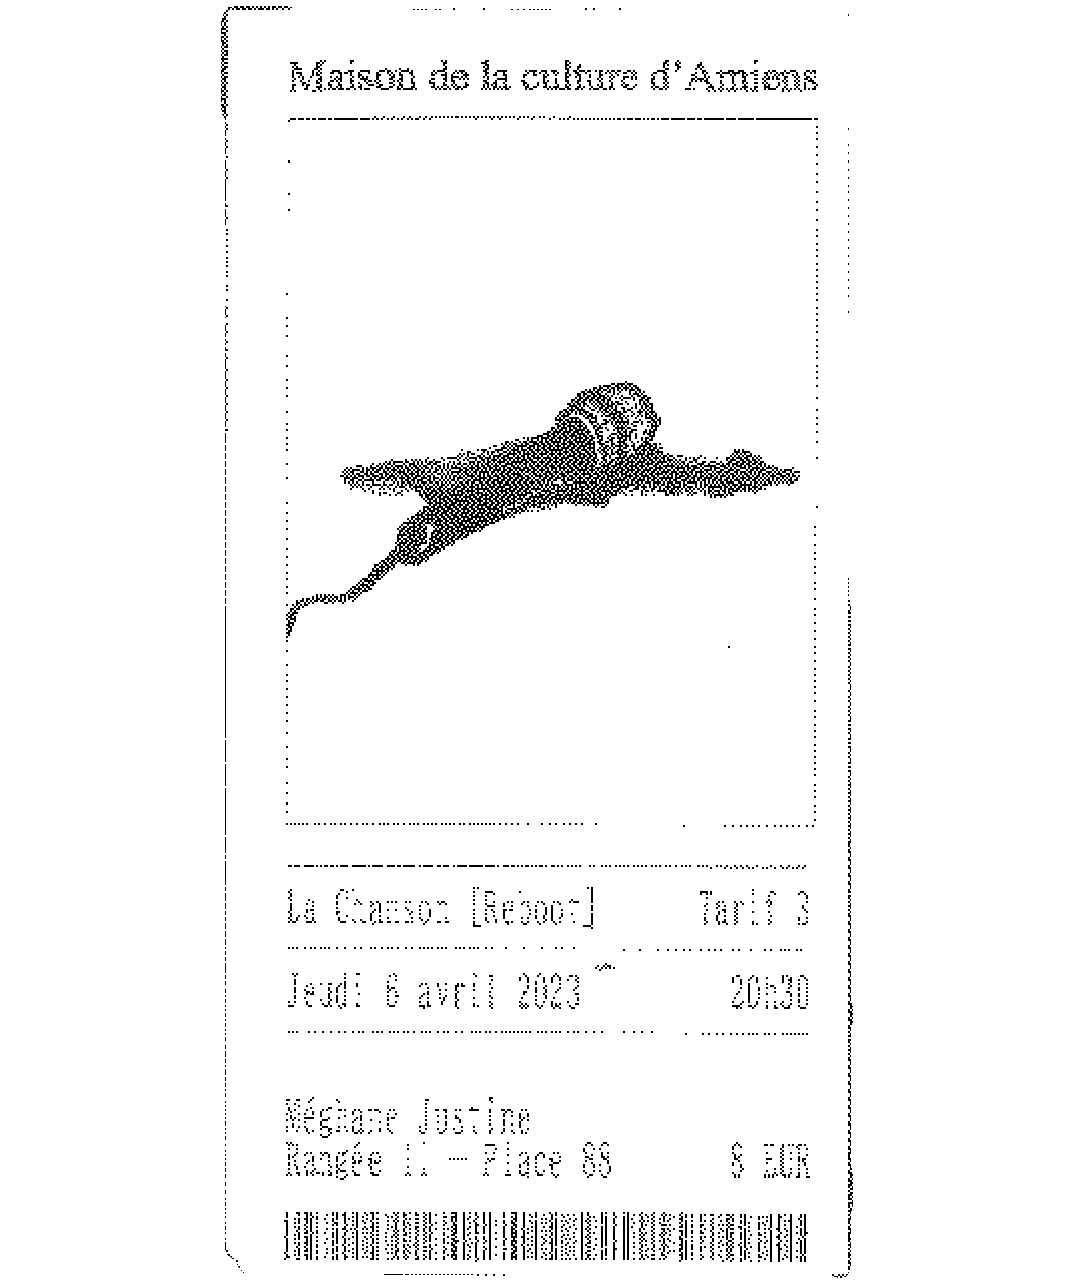
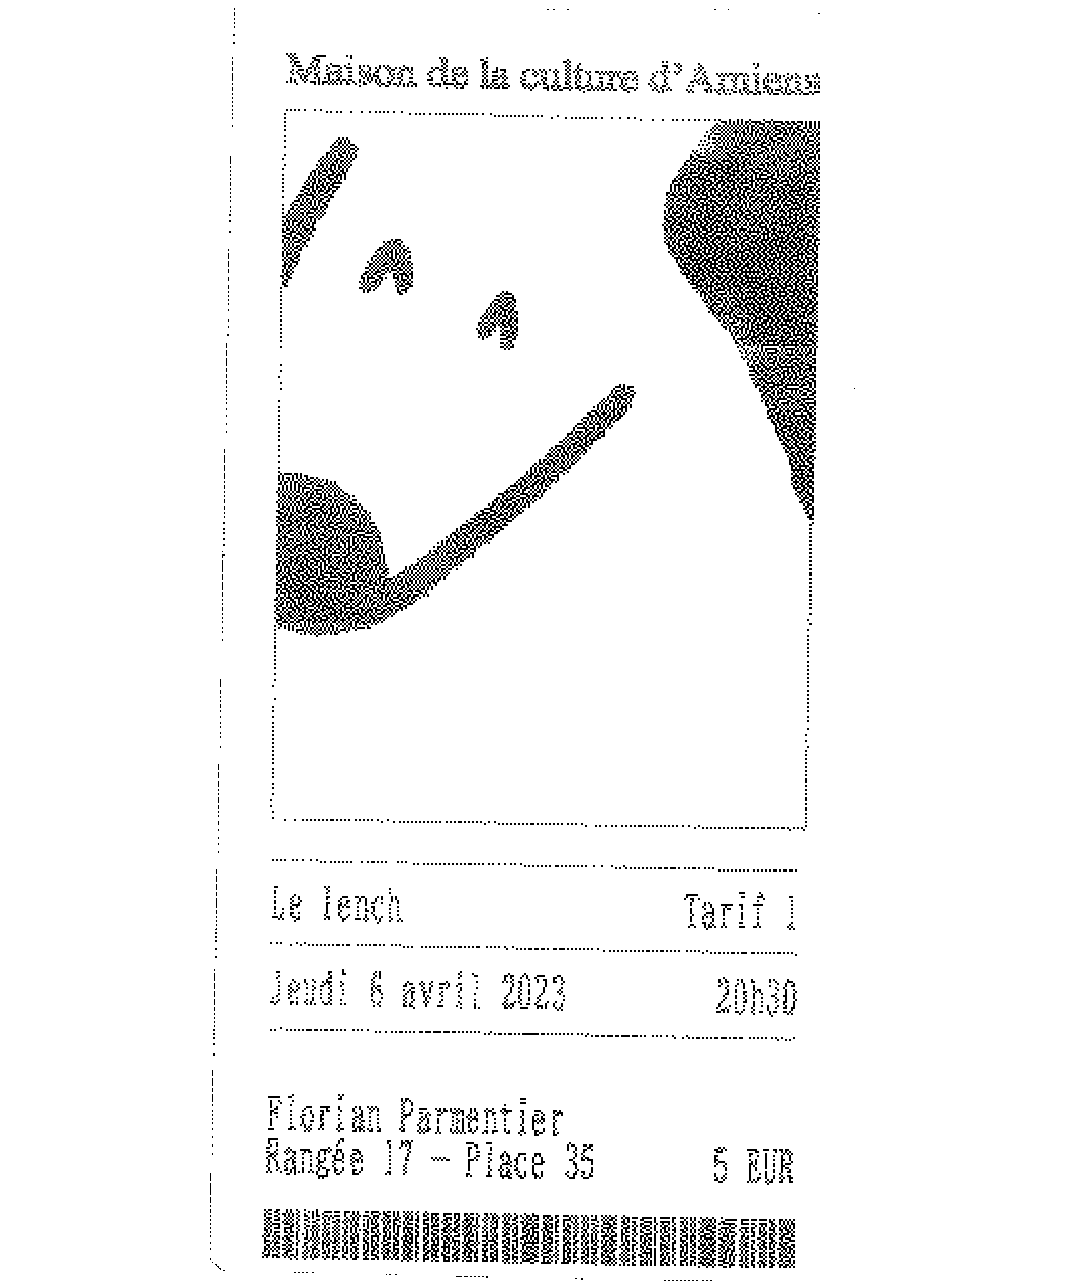
a

diff --git a/index.html b/index.html
@@ -51,7 +51,7 @@
 
     <p>
       © nicolas fernandez,  novembre 2023<br />
-      poids total du site : 250ko<br />
+      poids total du site : 4mo<br />
       contact (arobase) nicolasfernandez.fr
     </p>
 
@@ -102,23 +102,33 @@
       Élaboration d’un système graphique participatif reposant sur une suite bureautique libre et gratuite où artistes et spectateur·ice·s peuvent générer une infinité d’affiches différentes grâce au logiciel JS Paint (revival open-source du célèbre logiciel de Microsoft) qui s’est révelé étonnamment puissant. Dans un premier temps, j’ai réalisé une série de fonds d’affiches typographiques sur Open-Office en utilisant des fontes souvent délaissées par les designer·euse·s mais qui, à mon sens, ont une identité forte. Les fonds ont été mis en ligne sur un site internet conçu sur mesure où chacun·e à pu intervenir à l’aide des nombreux outils qu’offre le logiciel. Ce projet joue sur l’ambiguïté de la place du designer dans le processus créatif, dans le sens où je suis à l’origine du système, mais c’est l’utilisateur·ice produit qui les formes.
       </p>
 
-    <figure><img src="img/macu/saison2.png" alt="" /></figure>
-
     <figure>
       <img src="img/macu/A.png" alt="" />
       <figcaption>Processus de création d'affiche via <a href="https://jspaint.app">JS Paint</a></figcaption>
     </figure>
+
+    <figure><img src="img/macu/catarina_resultat.jpg" alt="" /></figure>
+    <figure><img src="img/macu/fiq_resultat.jpg" alt="" /></figure>
+    <figure><img src="img/macu/iench_resultat.jpg" alt="" /></figure>
+    <figure><img src="img/macu/any_resultat.jpg" alt="" /></figure>
+    <figure><img src="img/macu/saison_resultat.jpg" alt="" /></figure>
+
     <figure><img src="img/macu/saison.png" alt="" /></figure>
     <figure><img src="img/macu/saison.png" alt="" /></figure>
     <figure><img src="img/macu/any.png" alt="" /></figure>
-    <figure><img src="img/macu/ticket_0.png" alt="" /></figure>
-    <figure><img src="img/macu/ticket_01.png" alt="" /></figure>
-    <figure><img src="img/macu/ticket_1.png" alt="" /></figure>
+
+    <figure>
+      <img class="full_width" src="img/macu/ticket_1.png" alt="" />
+      <figcaption>Premier contact avec une imprimante thermique, une machine que je souhaite me procurer prochainement :)</figcaption>
+    </figure>
+
     <figure><img src="img/macu/ticket_2.png" alt="" /></figure>
     <figure><img src="img/macu/ticket_3.png" alt="" /></figure>
     <figure><img src="img/macu/ticket_4.png" alt="" /></figure>
+    <figure><img src="img/macu/ticket_5.png" alt="" /></figure>
 
-
+    <figure><img src="img/infokiosque/infokiosque_1.png" alt="" /></figure>
+    <figure><img src="img/infokiosque/infokiosque_2.png" alt="" /></figure>
 
     <h2 id="3">Photographie</h2>
 

diff --git a/css/styles.css b/css/styles.css
@@ -30,7 +30,7 @@
 /*-------------------- Général -------------------*/
 /*------------------------------------------------*/
 
-body {
+html {
   font-family: 'Times New Roman', Times, serif;
   font-size: var(--size);
   color: var(--black);
@@ -215,6 +215,7 @@ img {
   display: block;
   margin-left: auto;
   margin-right: auto;
+
 
   image-rendering: pixelated;
 
